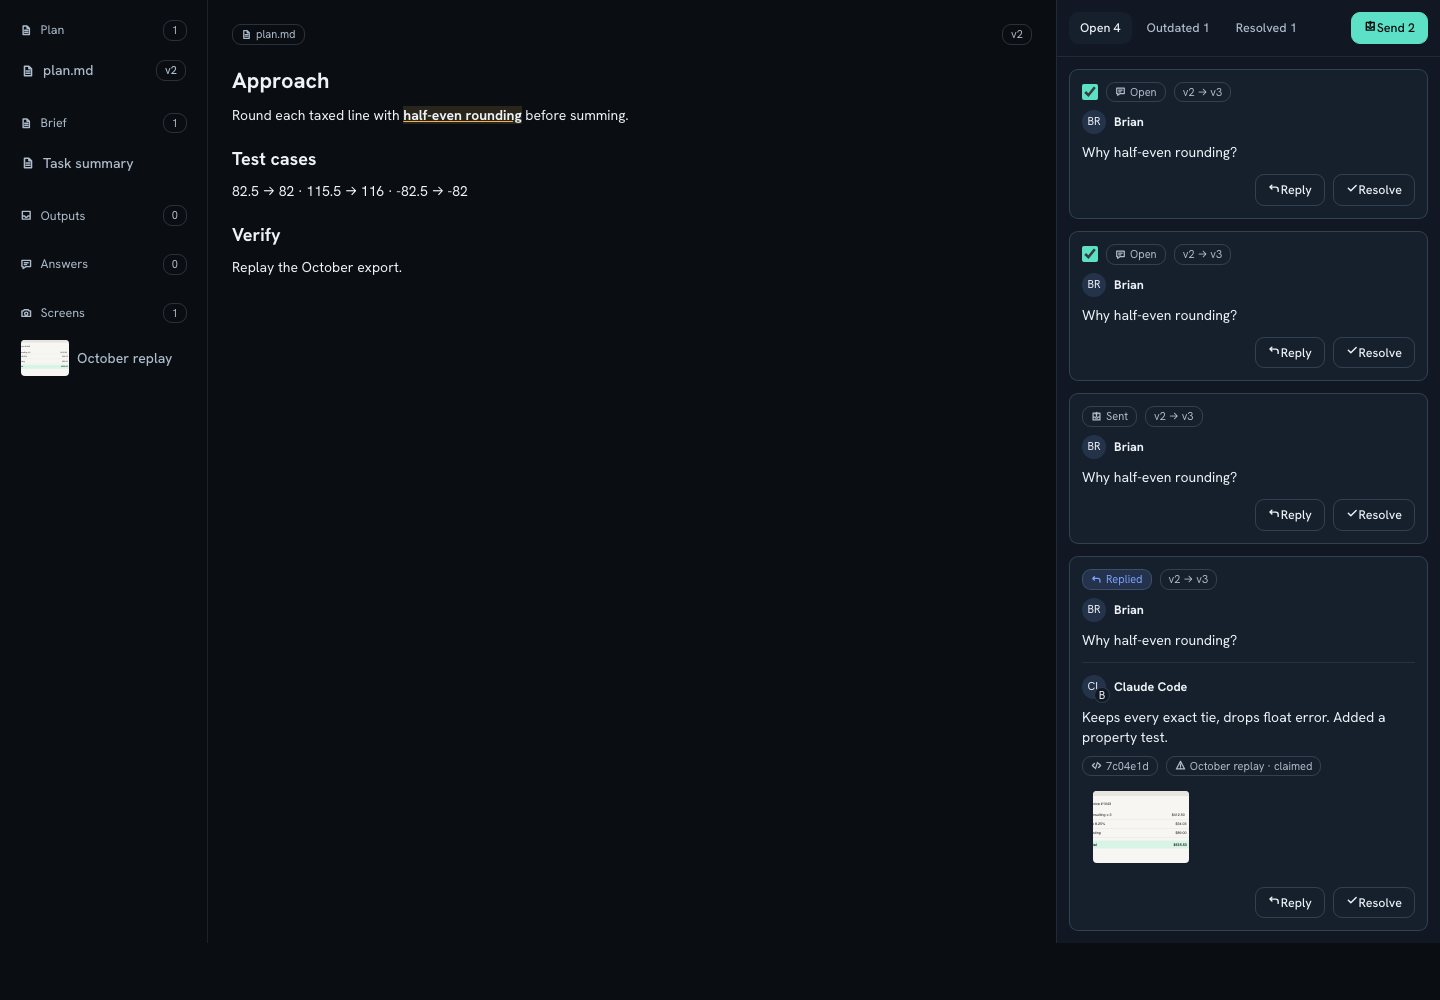
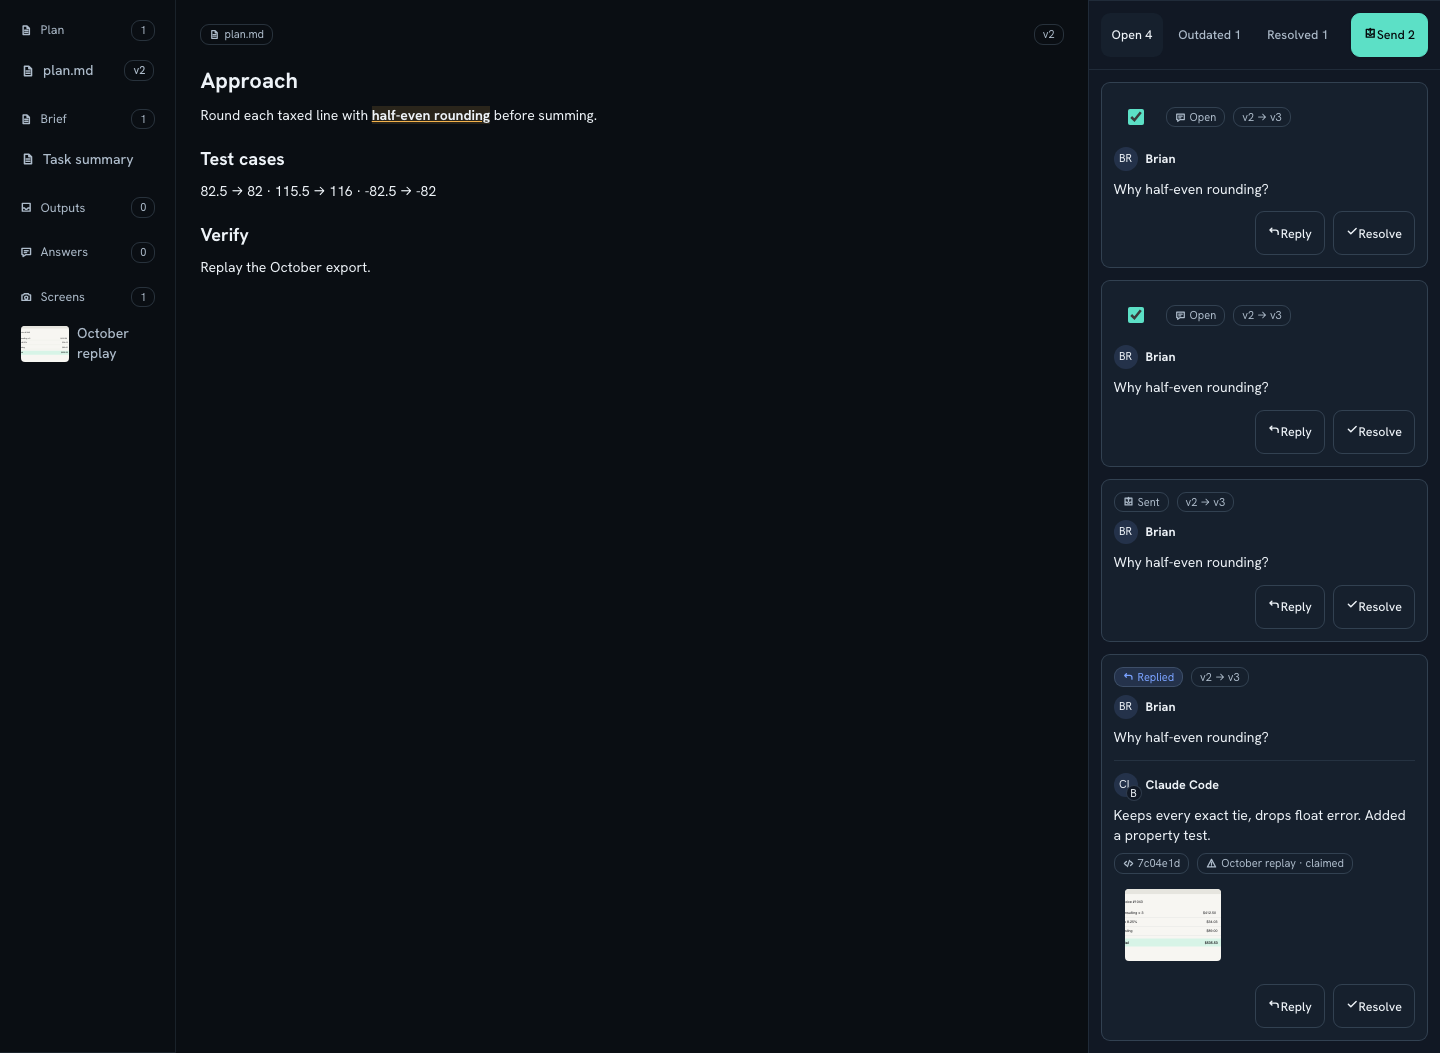
fix(ui): adopt shared review action and layout contracts

diff --git a/src-ui/src/views/task-workspace/review/TaskReviewLayout.css b/src-ui/src/views/task-workspace/review/TaskReviewLayout.css
@@ -1,6 +1,6 @@
 .task-review {
-  display: grid;
-  grid-template-columns: minmax(9rem, 13rem) minmax(0, 1fr) minmax(20rem, 24rem);
+  display: flex;
+  flex-wrap: wrap;
   min-height: 36rem;
   background: var(--k-bg);
   color: var(--k-text);
@@ -10,6 +10,8 @@
 }
 
 .task-review__items {
+  flex: 1 1 11rem;
+  border-bottom: var(--k-border-thin) solid var(--k-line);
   border-right: var(--k-border-thin) solid var(--k-line);
 }
 .task-review__content,
@@ -17,7 +19,12 @@
 .task-review__items {
   min-width: 0;
 }
+.task-review__content {
+  flex: 999 1 30rem;
+}
 .task-review__comments {
+  flex: 1 1 22rem;
+  border-top: var(--k-border-thin) solid var(--k-line);
   background: var(--k-panel);
   border-left: var(--k-border-thin) solid var(--k-line);
 }
@@ -26,17 +33,17 @@
   outline-offset: var(--k-focus-ring-offset);
 }
 .review-items {
+  display: grid;
+  grid-template-columns: repeat(auto-fit, minmax(min(100%, 9rem), 1fr));
+  gap: var(--k-space-2);
   padding: var(--k-space-3);
-}
-.review-items__group + .review-items__group {
-  margin-top: var(--k-space-3);
 }
 .review-items__heading,
 .review-items__item,
 .review-document__header,
 .review-thread__header,
 .review-thread__author,
-.review-thread__actions,
+.review-controls,
 .review-evidence {
   display: flex;
   align-items: center;
@@ -139,7 +146,7 @@
   text-decoration: underline;
   text-decoration-color: var(--k-caution);
 }
-.review-rail__toolbar {
+.review-rail__controls {
   display: flex;
   flex-wrap: wrap;
   align-items: center;
@@ -253,7 +260,7 @@
   font: inherit;
   resize: vertical;
 }
-.review-thread__actions {
+.review-controls {
   justify-content: flex-end;
   margin-top: var(--k-space-2);
 }
@@ -289,10 +296,10 @@
   background: transparent;
 }
 
-.review-composer--floating {
+.review-composer {
   position: fixed;
-  top: var(--review-top);
-  left: var(--review-left);
+  top: var(--review-top, max(var(--k-space-4), calc(50% - 6rem)));
+  left: var(--review-left, max(var(--k-space-4), calc(50% - 11rem)));
   max-height: calc(100vh - 2 * var(--k-space-4));
   overflow: auto;
   box-sizing: border-box;
@@ -369,44 +376,9 @@
   border: 0;
 }
 
-@media (max-width: 1100px) {
-  .task-review {
-    grid-template-columns: minmax(8rem, 10rem) minmax(0, 1fr);
-  }
-  .task-review__comments {
-    grid-column: 1 / -1;
-    border-left: 0;
-    border-top: var(--k-border-thin) solid var(--k-line);
-  }
+.review-rail :is(button, .review-thread__select) {
+  min-height: 2.75rem;
 }
-
-@media (max-width: 600px) {
-  .task-review {
-    grid-template-columns: minmax(0, 1fr);
-  }
-  .task-review__items {
-    border-right: 0;
-    border-bottom: var(--k-border-thin) solid var(--k-line);
-  }
-  .review-items {
-    display: flex;
-    gap: var(--k-space-2);
-    overflow-x: auto;
-  }
-  .review-items__group {
-    flex: 0 0 10rem;
-  }
-  .review-items__group + .review-items__group {
-    margin-top: 0;
-  }
-  .review-document,
-  .review-image {
-    padding: var(--k-space-4);
-  }
-  .review-rail :is(button, .review-thread__select) {
-    min-height: 2.75rem;
-  }
-  .review-thread__select {
-    min-width: 2.75rem;
-  }
+.review-thread__select {
+  min-width: 2.75rem;
 }

diff --git a/src-ui/src/views/task-workspace/review/ReviewCommentsRail.tsx b/src-ui/src/views/task-workspace/review/ReviewCommentsRail.tsx
@@ -6,6 +6,7 @@ import type {
 } from '@kontourai/station-contracts/task-review';
 import { Button } from '../../../components/Button';
 import { OutboxGlyph } from '../../../components/icons/Glyph';
+import { ResponsiveSurfaceActions } from '../../../components/ResponsiveDialogSurface';
 import { ReviewThreadCard } from './ReviewThreadCard';
 import { type ReviewThreadActions, reviewThreadState } from './review-state';
 
@@ -48,35 +49,37 @@ export function ReviewCommentsRail({
 
   return (
     <aside className="review-rail" aria-label="Review comments">
-      <header className="review-rail__toolbar">
-        <fieldset className="review-filters" aria-label="Thread state">
-          {(['open', 'outdated', 'resolved'] as const).map((value) => (
-            <Button
-              key={value}
-              size="sm"
-              variant="ghost"
-              aria-pressed={filter === value}
-              onClick={() => onFilterChange(value)}
-            >
-              {
-                { open: 'Open', outdated: 'Outdated', resolved: 'Resolved' }[
-                  value
-                ]
-              }{' '}
-              {counts[value]}
-            </Button>
-          ))}
-        </fieldset>
-        <Button
-          size="sm"
-          variant="primary"
-          disabled={sendableIds.length === 0}
-          pending={sending}
-          onClick={() => onSend(sendableIds)}
-        >
-          <OutboxGlyph />
-          Send {sendableIds.length}
-        </Button>
+      <header>
+        <ResponsiveSurfaceActions className="review-rail__controls">
+          <fieldset className="review-filters" aria-label="Thread state">
+            {(['open', 'outdated', 'resolved'] as const).map((value) => (
+              <Button
+                key={value}
+                size="sm"
+                variant="ghost"
+                aria-pressed={filter === value}
+                onClick={() => onFilterChange(value)}
+              >
+                {
+                  { open: 'Open', outdated: 'Outdated', resolved: 'Resolved' }[
+                    value
+                  ]
+                }{' '}
+                {counts[value]}
+              </Button>
+            ))}
+          </fieldset>
+          <Button
+            size="sm"
+            variant="primary"
+            disabled={sendableIds.length === 0}
+            pending={sending}
+            onClick={() => onSend(sendableIds)}
+          >
+            <OutboxGlyph />
+            Send {sendableIds.length}
+          </Button>
+        </ResponsiveSurfaceActions>
       </header>
       <div className="review-rail__threads">
         {rows.map((row) => (

diff --git a/src-ui/src/views/task-workspace/review/ReviewThreadCard.tsx b/src-ui/src/views/task-workspace/review/ReviewThreadCard.tsx
@@ -8,6 +8,7 @@ import { useState } from 'react';
 import { Button } from '../../../components/Button';
 import {
   CheckGlyph,
+  CloseGlyph,
   CodeGlyph,
   MessageGlyph,
   OutboxGlyph,
@@ -16,6 +17,7 @@ import {
   TimeGlyph,
   WarningGlyph,
 } from '../../../components/icons/Glyph';
+import { ResponsiveSurfaceActions } from '../../../components/ResponsiveDialogSurface';
 import { useUnsavedGuard } from '../../../hooks/useUnsavedGuard';
 import {
   type ReviewIdentity,
@@ -261,7 +263,7 @@ export function ReviewThreadCard({
             rows={2}
           />
         )}
-        <div className="review-thread__actions">
+        <ResponsiveSurfaceActions className="review-controls">
           {!replying ? (
             <Button
               size="sm"
@@ -285,6 +287,7 @@ export function ReviewThreadCard({
               </Button>
               <Button
                 size="sm"
+                aria-label={`Cancel reply to thread ${thread.ordinal}`}
                 onClick={() =>
                   guard(() => {
                     setDraft('');
@@ -292,7 +295,7 @@ export function ReviewThreadCard({
                   })
                 }
               >
-                Cancel
+                <CloseGlyph />
               </Button>
             </>
           )}
@@ -310,7 +313,7 @@ export function ReviewThreadCard({
             {base === 'resolved' ? <RefreshGlyph /> : <CheckGlyph />}
             {base === 'resolved' ? 'Reopen' : 'Resolve'}
           </Button>
-        </div>
+        </ResponsiveSurfaceActions>
       </form>
       {error && <p role="alert">{error}</p>}
       <DiscardModal />

diff --git a/src-ui/src/views/task-workspace/review/ReviewAnchorComposer.tsx b/src-ui/src/views/task-workspace/review/ReviewAnchorComposer.tsx
@@ -2,7 +2,10 @@ import { TASK_REVIEW_LIMITS } from '@kontourai/station-contracts/task-review';
 import { type CSSProperties, useRef, useState } from 'react';
 import { Button } from '../../../components/Button';
 import { CloseGlyph, MessageGlyph } from '../../../components/icons/Glyph';
-import { ResponsiveDialogSurface } from '../../../components/ResponsiveDialogSurface';
+import {
+  ResponsiveDialogSurface,
+  ResponsiveSurfaceActions,
+} from '../../../components/ResponsiveDialogSurface';
 import { useUnsavedGuard } from '../../../hooks/useUnsavedGuard';
 
 export function ReviewAnchorComposer({
@@ -41,7 +44,7 @@ export function ReviewAnchorComposer({
         dismissible={!pending}
         initialFocusRef={input}
         overlayClassName="review-composer-overlay"
-        panelClassName={`review-composer${position ? ' review-composer--floating' : ''}`}
+        panelClassName="review-composer"
         panelStyle={panelStyle}
       >
         <form
@@ -75,7 +78,7 @@ export function ReviewAnchorComposer({
             disabled={pending}
             onChange={(event) => setBody(event.target.value)}
           />
-          <div className="review-thread__actions">
+          <ResponsiveSurfaceActions className="review-controls">
             <Button
               type="submit"
               size="sm"
@@ -94,7 +97,7 @@ export function ReviewAnchorComposer({
             >
               <CloseGlyph />
             </Button>
-          </div>
+          </ResponsiveSurfaceActions>
           {error && <p role="alert">{error}</p>}
         </form>
       </ResponsiveDialogSurface>
